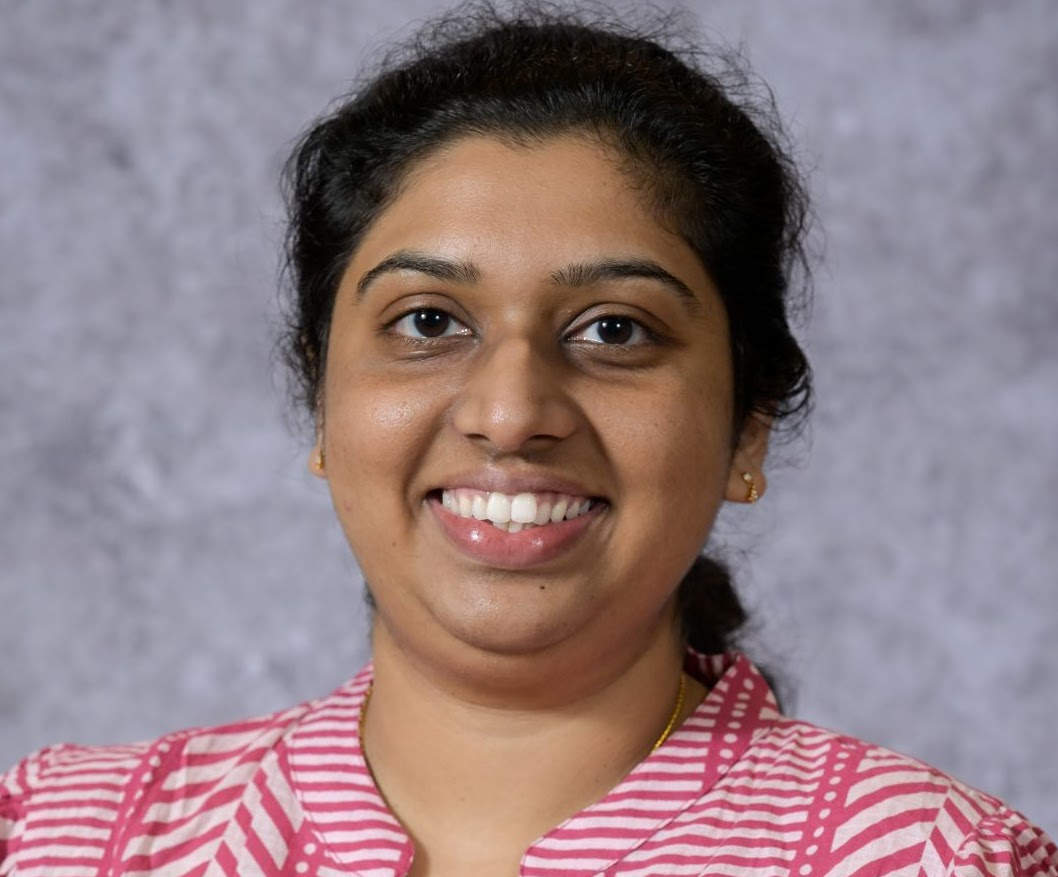
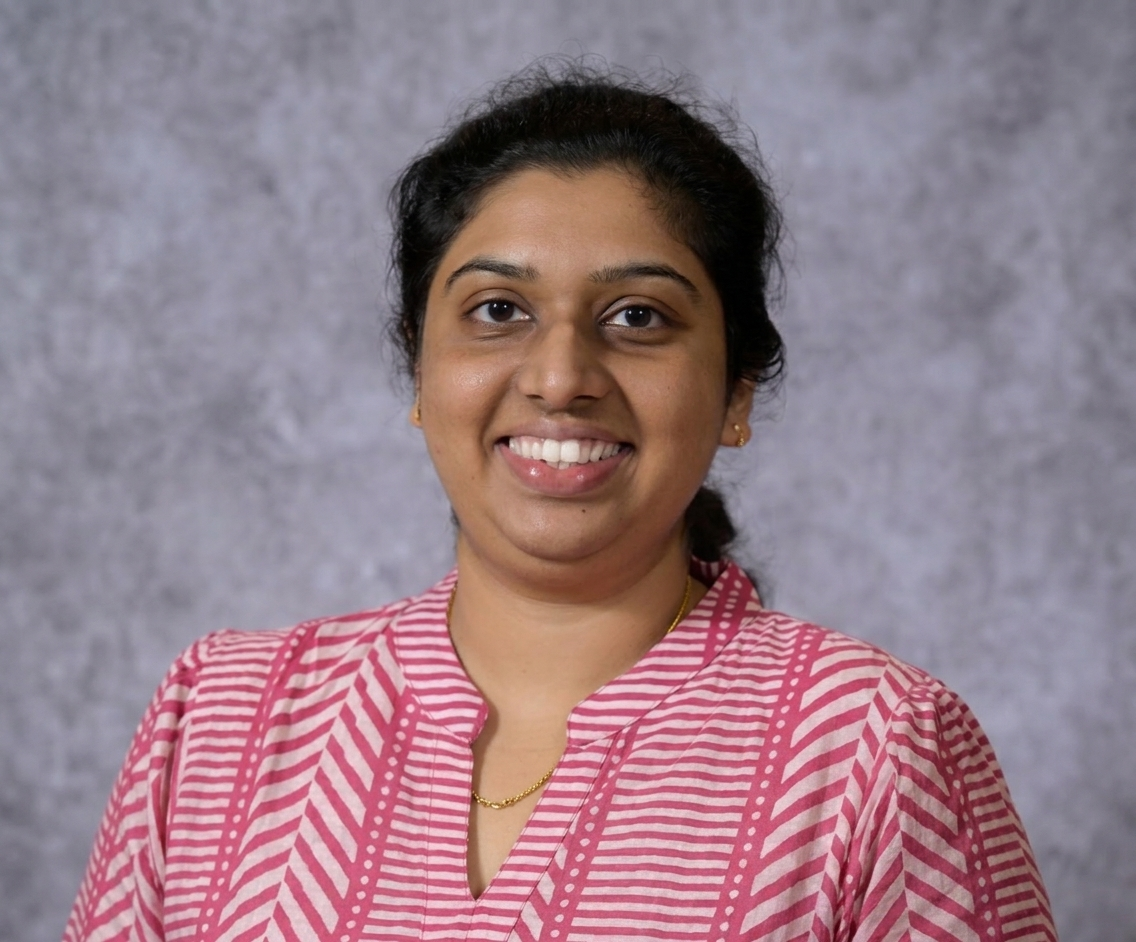
updated animations and profile picture

diff --git a/index.html b/index.html
@@ -858,6 +858,7 @@ function updateNavTheme() {
 window.addEventListener('scroll', updateNavTheme, { passive: true });
 
 // Page navigation
+var _navigatingFromHistory = false;
 function go(page) {
   document.querySelectorAll('.page').forEach(function(p) { p.classList.remove('active'); });
   document.querySelectorAll('.nav-link').forEach(function(l) { l.classList.remove('active'); });
@@ -870,8 +871,37 @@ function go(page) {
   // Sticky apply bar
   var sa = document.getElementById('sticky-apply');
   if (sa) sa.style.display = (page === 'join') ? 'flex' : 'none';
+
+  if (!_navigatingFromHistory) {
+    history.pushState({ page: page }, '', '#' + page);
+  }
 }
 window.go = go;
+
+// Browser Back/Forward: restore whichever page the history entry points to. Routed through
+// window.go (not the base go directly) so any wrappers layered on top — the hero-click reveal,
+// the project-detail-panel close — still run; the reveal wrapper only animates when it has a
+// queued click point, so a plain Back/Forward press just switches pages instantly, as expected.
+window.addEventListener('popstate', function(e) {
+  var page = (e.state && e.state.page) || (location.hash ? location.hash.slice(1) : 'home');
+  if (!document.getElementById('page-' + page)) page = 'home';
+  _navigatingFromHistory = true;
+  window.go(page);
+  _navigatingFromHistory = false;
+});
+
+// Deep link / refresh: land on whatever page the URL hash names instead of always Home.
+(function() {
+  var initial = location.hash ? location.hash.slice(1) : '';
+  if (initial && initial !== 'home' && document.getElementById('page-' + initial)) {
+    _navigatingFromHistory = true;
+    window.go(initial);
+    _navigatingFromHistory = false;
+    history.replaceState({ page: initial }, '', '#' + initial);
+  } else {
+    history.replaceState({ page: 'home' }, '', location.pathname + location.search);
+  }
+})();
 
 // Parallax on hero + back-to-top visibility
 window.addEventListener('scroll', function() {
@@ -1135,41 +1165,7 @@ var ctx = canvas.getContext('2d');
 var profImg = new Image();
 profImg.src = 'Assets/Dr. Aditi Profile Pic.jpg';
 
-var N = 10;
 var blobT = 0;
-
-function blobPts(t, cx, cy, r) {
-  var pts = [];
-  for (var i = 0; i < N; i++) {
-    var angle = (i / N) * Math.PI * 2;
-    var rr = r * (
-      1
-      + 0.18 * Math.sin(t * 0.9  + i * 1.5  + 0.4)
-      + 0.10 * Math.cos(t * 0.65 + i * 2.1  + 1.1)
-      + 0.06 * Math.sin(t * 1.4  + i * 0.85 + 2.3)
-    );
-    pts.push({ x: cx + Math.cos(angle) * rr, y: cy + Math.sin(angle) * rr });
-  }
-  return pts;
-}
-
-function catmullPath(pts) {
-  var n = pts.length;
-  ctx.beginPath();
-  for (var i = 0; i < n; i++) {
-    var p0 = pts[(i - 1 + n) % n];
-    var p1 = pts[i];
-    var p2 = pts[(i + 1) % n];
-    var p3 = pts[(i + 2) % n];
-    var cp1x = p1.x + (p2.x - p0.x) / 6;
-    var cp1y = p1.y + (p2.y - p0.y) / 6;
-    var cp2x = p2.x - (p3.x - p1.x) / 6;
-    var cp2y = p2.y - (p3.y - p1.y) / 6;
-    if (i === 0) ctx.moveTo(p1.x, p1.y);
-    ctx.bezierCurveTo(cp1x, cp1y, cp2x, cp2y, p2.x, p2.y);
-  }
-  ctx.closePath();
-}
 
 function animBlob() {
   blobT += 0.008;
@@ -1184,17 +1180,16 @@ function animBlob() {
   var cy = H / 2 + Math.cos(blobT * 0.25) * 5;
   var r  = Math.min(W, H) * 0.40;
 
-  var pts = blobPts(blobT, cx, cy, r);
-
   ctx.save();
-  catmullPath(pts);
+  ctx.beginPath();
+  ctx.arc(cx, cy, r, 0, Math.PI * 2);
   ctx.clip();
 
   if (profImg.complete && profImg.naturalWidth > 0) {
-    var scale = Math.max(W / profImg.naturalWidth, H / profImg.naturalHeight) * 1.15;
+    var scale = Math.max(W / profImg.naturalWidth, H / profImg.naturalHeight);
     var iw = profImg.naturalWidth * scale;
     var ih = profImg.naturalHeight * scale;
-    ctx.drawImage(profImg, (W - iw) / 2, (H - ih) / 2, iw, ih);
+    ctx.drawImage(profImg, (W - iw) / 2, (H - ih) / 2 + H * 0.10, iw, ih);
   } else {
     var grad = ctx.createRadialGradient(cx, cy, 0, cx, cy, r * 1.3);
     grad.addColorStop(0, '#f0ede8');
@@ -1210,7 +1205,8 @@ function animBlob() {
   ctx.restore();
 
   ctx.save();
-  catmullPath(pts);
+  ctx.beginPath();
+  ctx.arc(cx, cy, r, 0, Math.PI * 2);
   ctx.strokeStyle = 'rgba(0,0,0,0.09)';
   ctx.lineWidth = 1.5;
   ctx.stroke();
@@ -2879,6 +2875,88 @@ view.element.addEventListener('mouseleave', function() {
   window.initBlobHover(document.getElementById('page-join'), {
     rowSelector: '#apply-open-btn'
   });
+})();
+</script>
+
+<!-- ════════════════ HERO METABALL NAVIGATION — CIRCLE REVEAL (does not modify the frozen hero
+     metaball script; adds an independent click listener on the same wrap, and wraps window.go,
+     which is already wrapped once by the Projects Detail Panel script above) ════════════════ -->
+<script>
+(function() {
+  var heroWrap = document.getElementById('hero-canvas-wrap');
+  if (heroWrap) {
+    heroWrap.addEventListener('click', function(e) {
+      window._heroNavClickXY = [e.clientX, e.clientY, Date.now()];
+    });
+  }
+
+  var _go = window.go;
+  var pending = null; // { target, timeoutId } for an in-flight wipe, if any
+
+  function finishWipe(target) {
+    target.style.position = '';
+    target.style.inset = '';
+    target.style.zIndex = '';
+    target.style.overflowY = '';
+    target.style.background = '';
+    target.style.transition = '';
+    target.style.clipPath = '';
+  }
+
+  window.go = function(page) {
+    var recorded = window._heroNavClickXY;
+    window._heroNavClickXY = null;
+    // Only trust the recorded click if it happened right now, in the same synchronous
+    // click dispatch that's causing this go() call — a click on hero space that missed
+    // every ball otherwise sits there and gets mistaken for the origin of some unrelated
+    // later navigation (e.g. a plain nav-bar click), which is what was wrapping the WRONG
+    // page — including #page-home itself — in this overlay treatment.
+    var xy = (recorded && Date.now() - recorded[2] < 200) ? recorded : null;
+
+    // A previous wipe still mid-flight when a new navigation starts must be cancelled and
+    // cleaned up immediately — otherwise its queued setTimeout fires later against whatever
+    // page is active by then, re-running _go() for the OLD target and leaving that target's
+    // temporary fixed-overlay styles stuck.
+    if (pending) {
+      clearTimeout(pending.timeoutId);
+      finishWipe(pending.target);
+      pending = null;
+    }
+
+    var target = xy ? document.getElementById('page-' + page) : null;
+    if (!target) { _go(page); return; }
+
+    // Overlay the target as a fixed, full-viewport panel ON TOP of the still-visible old
+    // page (same as openProject: the old page stays put as backdrop instead of being hidden
+    // first), starting fully clipped away and growing from the click point. Only once that
+    // finishes do we hand off to the real go(), which does the actual page-switch bookkeeping
+    // and returns the target to its normal in-flow layout.
+    var clickX = xy[0], clickY = xy[1];
+    var r = Math.hypot(Math.max(clickX, window.innerWidth - clickX), Math.max(clickY, window.innerHeight - clickY));
+
+    target.classList.add('active');
+    target.style.position = 'fixed';
+    target.style.inset = '0';
+    target.style.zIndex = '550';
+    target.style.overflowY = 'auto';
+    target.style.background = 'var(--white)';
+    target.style.transition = 'none';
+    target.style.clipPath = 'circle(0px at ' + clickX + 'px ' + clickY + 'px)';
+    target.getBoundingClientRect();
+    target.style.transition = 'clip-path .6s ease-in-out';
+    target.style.clipPath = 'circle(' + r + 'px at ' + clickX + 'px ' + clickY + 'px)';
+
+    var timeoutId = setTimeout(function() {
+      pending = null;
+      _go(page);
+      finishWipe(target);
+      // _go()'s own updateNavTheme() ran a moment ago while target was still the fixed
+      // overlay — a layout state that doesn't match its real in-flow position, so the
+      // nav theme it computed can be stale. Recompute now that target is back in normal flow.
+      updateNavTheme();
+    }, 600);
+    pending = { target: target, timeoutId: timeoutId };
+  };
 })();
 </script>
 
